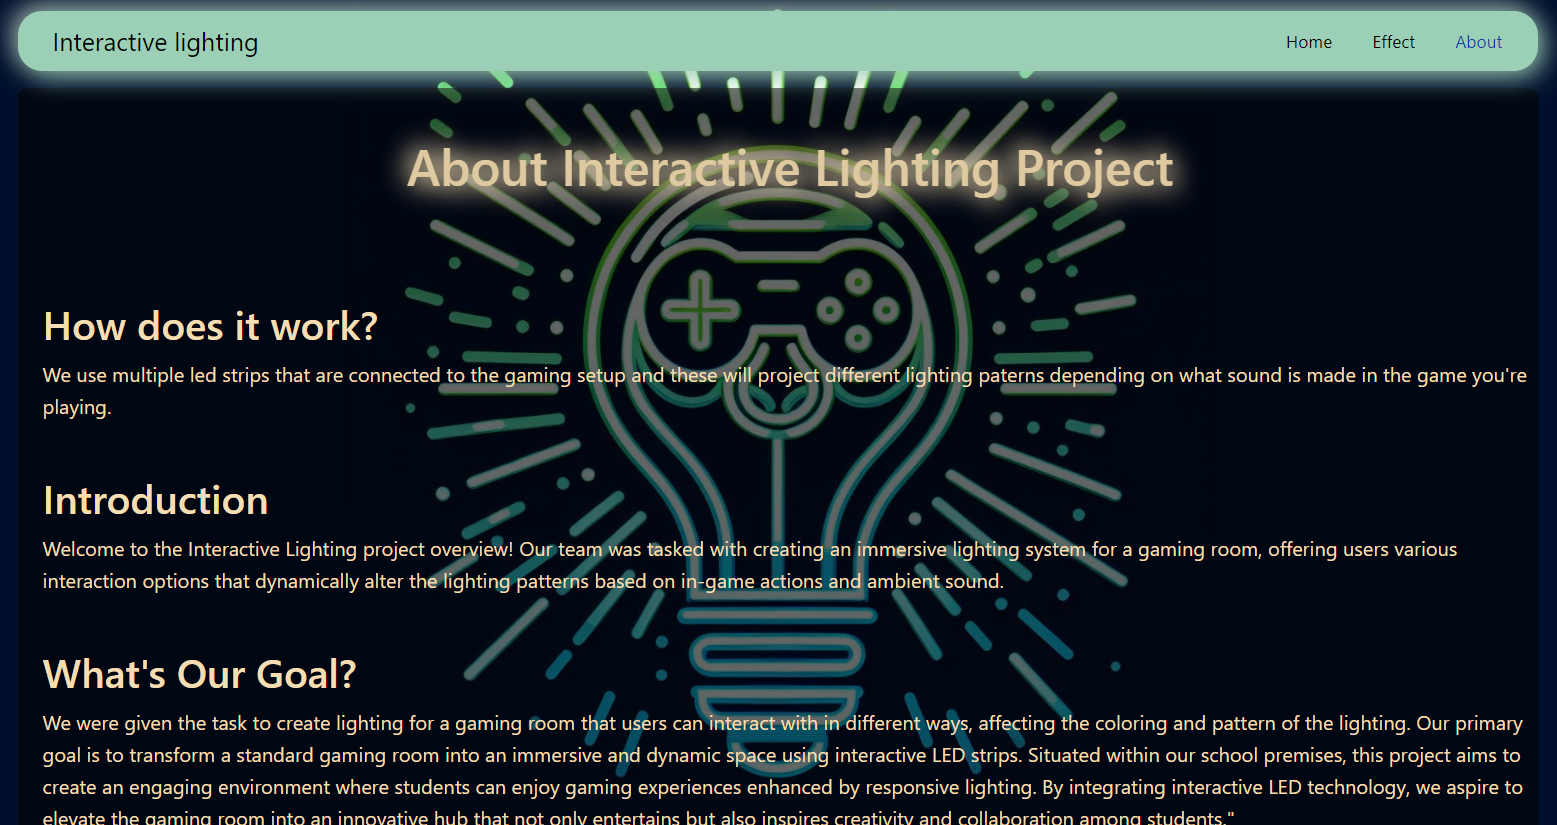
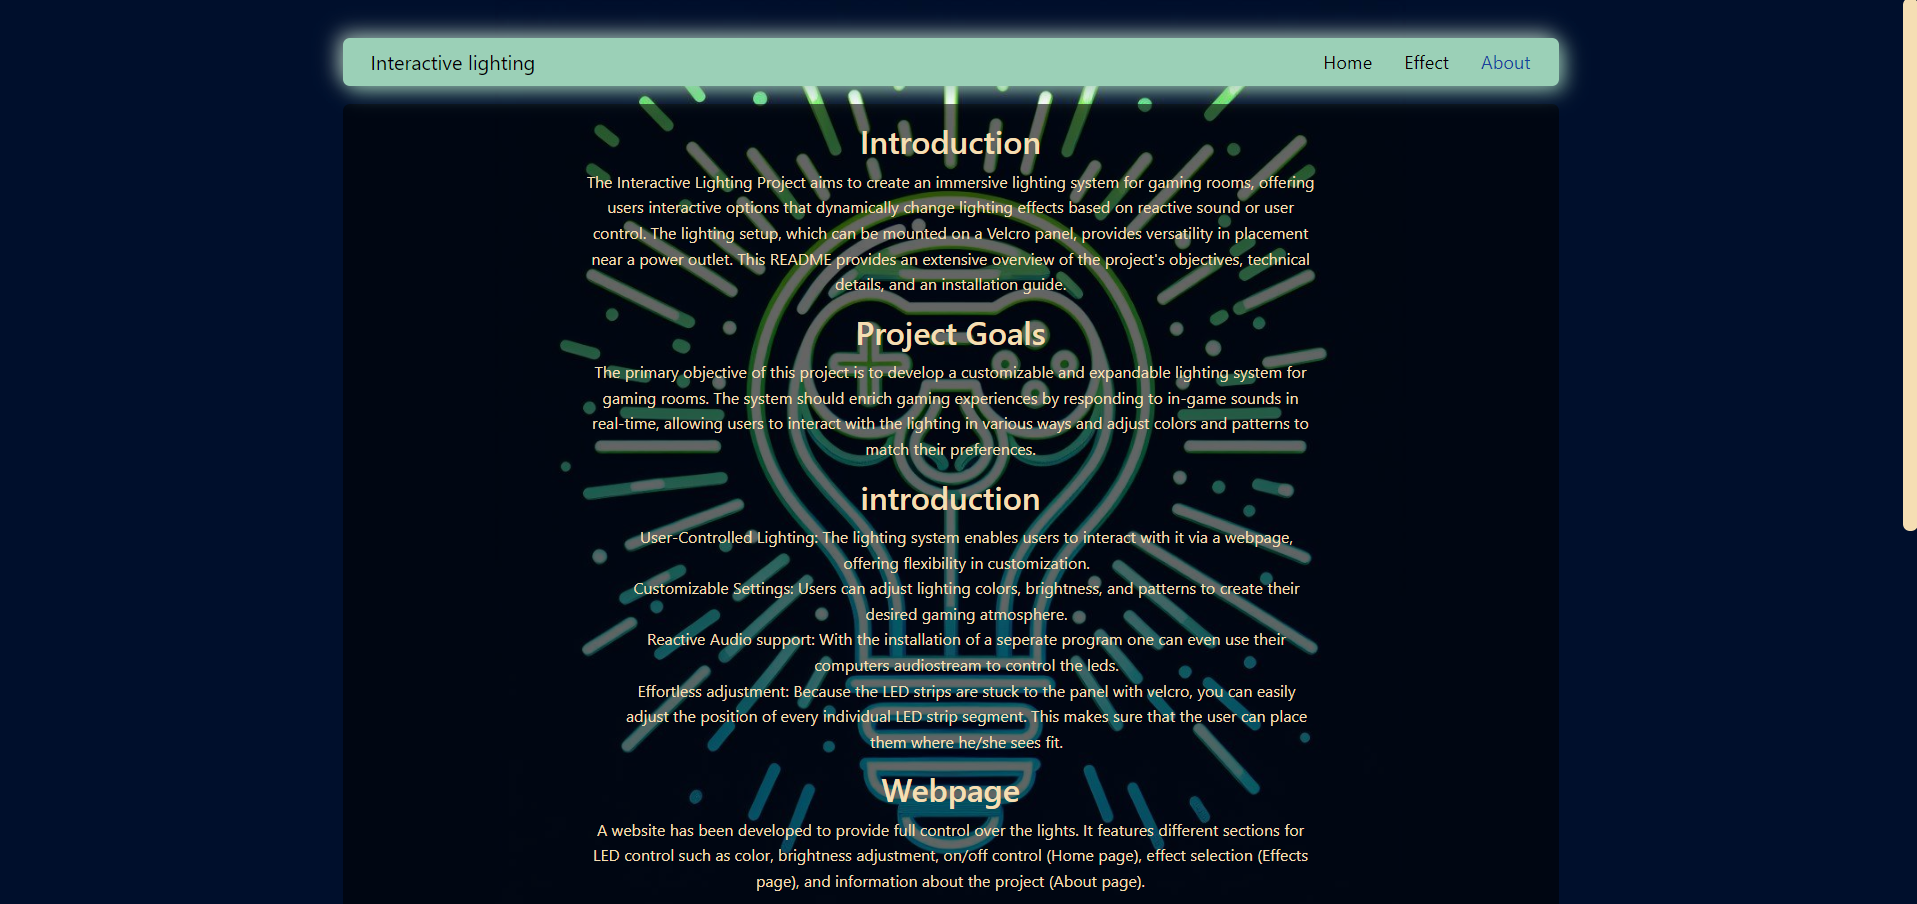
fixed aboutpage

diff --git a/frontend/src/views/AboutView.vue b/frontend/src/views/AboutView.vue
@@ -1,105 +1,77 @@
 <template>
   <main>
     <div class="about">
-      <h1 class="H1Style">About Interactive Lighting Project</h1>
-      <br />
-      <br />
-      
-      <h2>How does it work?</h2>
-      <p>
-        We use multiple led strips that are connected to the gaming setup and
-        these will project different lighting paterns depending on what sound is
-        made in the game you're playing.
-      </p>
-      <br />
-
       <section id="introduction">
         <h2>Introduction</h2>
         <p>
-          Welcome to the Interactive Lighting project overview! Our team was
-          tasked with creating an immersive lighting system for a gaming room,
-          offering users various interaction options that dynamically alter the
-          lighting patterns based on in-game actions and ambient sound.
+          The Interactive Lighting Project aims to create an immersive lighting system for gaming rooms, offering users
+          interactive options that dynamically change lighting effects based on reactive sound or user control. The
+          lighting setup, which can be mounted on a Velcro panel, provides versatility in placement near a power outlet.
+          This README provides an extensive overview of the project's objectives, technical details, and an installation
+          guide.
         </p>
       </section>
-      <br />
 
-      <section id="goal">
-        <h2>What's Our Goal?</h2>
+      <section id="projectGoals">
+        <h2>Project Goals</h2>
         <p>
-          We were given the task to create lighting for a gaming room that users
-          can interact with in different ways, affecting the coloring and
-          pattern of the lighting. Our primary goal is to transform a standard
-          gaming room into an immersive and dynamic space using interactive LED
-          strips. Situated within our school premises, this project aims to
-          create an engaging environment where students can enjoy gaming
-          experiences enhanced by responsive lighting. By integrating
-          interactive LED technology, we aspire to elevate the gaming room into
-          an innovative hub that not only entertains but also inspires
-          creativity and collaboration among students."
+          The primary objective of this project is to develop a customizable and expandable lighting system for gaming
+          rooms. The system should enrich gaming experiences by responding to in-game sounds in real-time, allowing
+          users to interact with the lighting in various ways and adjust colors and patterns to match their preferences.
         </p>
       </section>
-      <br />
-
-      <section id="how-it-works">
-        <h2>How Does It Work?</h2>
-        <p>
-          We use multiple LED strips connected to the gaming setup, which
-          project different lighting patterns depending on the in-game sound.
-        </p>
-      </section>
-      <br />
 
       <section id="features">
-        <h2>Features</h2>
-        Real-time Responsiveness: The lighting system reacts instantly to
-        in-game events and ambient sound, providing a seamless and immersive
-        experience.
-      </section>
-      <br />
-
-      <section id="expandability">
-        <h2>Expandability</h2>
-        <p>
-          This project has been designed with expandability in mind, allowing
-          for future enhancements and additions without significant rework.
-        </p>
-      </section>
-      <br />
-      <section id="software">
-        <h2>Software We Used</h2>
-        <div>
-          <ul id="list">
-            <li>WLED</li>
-            <li>Fusion 360</li>
-          </ul>
-        </div>
-      </section>
-      <br />
-
-      <section id="hardware">
-        <h2>Hardware We Used</h2>
-        <ul id="list">
-          <li>ESP32</li>
-          <li>24V Power Supply</li>
-          <li>DC/DC Converter</li>
-          <li>WS2812 LED Strips</li>
-          <li>
-            Ceiling Mounting Hardware (later replaced with a panel and velcro)
-          </li>
-          <li>JST Connectors</li>
-          <li>Velcro</li>
+        <h2>introduction</h2>
+        <ul class="list">
+          <li>User-Controlled Lighting: The lighting system enables users to interact with it via a webpage, offering
+            flexibility in customization.</li>
+          <li>Customizable Settings: Users can adjust lighting colors, brightness, and patterns to create their desired
+            gaming atmosphere.</li>
+          <li>Reactive Audio support: With the installation of a seperate program one can even use their computers
+            audiostream to control the leds.</li>
+          <li>Effortless adjustment: Because the LED strips are stuck to the panel with velcro, you can easily adjust
+            the position of every individual LED strip segment. This makes sure that the user can place them where
+            he/she sees fit.</li>
         </ul>
       </section>
-      <br />
 
-      <section id="changes">
-        <h2>Changes During the Project</h2>
+      <section id="webpage">
+        <h2>Webpage</h2>
         <p>
-          Originally, we planned to mount the LED strips on the ceiling, but
-          later decided to stick them to a panel with velcro for easier
-          installation and flexibility.
+          A website has been developed to provide full control over the lights. It features different sections for LED
+          control such as color, brightness adjustment, on/off control (Home page), effect selection (Effects page), and
+          information about the project (About page).
         </p>
+        <br>
+
+        <h2>Home Page</h2>
+        <p>
+          This page allows control of the general LED settings. Users can adjust the solid color, brightness, and turn
+          the lights on or off. There's a left side with a color picker and buttons for predefined colors, and a right
+          side with controls for power and brightness, as well as a button for random effects.
+        </p>
+        <br>
+
+        <h2>Effect Page</h2>
+        <p>
+          Here, users can choose from a variety of effects available in WLED. They can either search for specific
+          effects or browse through the entire list to select one, enabling them to create a unique gaming atmosphere.
+        </p>
+        <br>
+
+        <h2>About Page</h2>
+        <p>
+          This page provides detailed information about the project's goals, features, and technical specifications.
+          It's intended for informational purposes only and does not offer LED control.
+        </p>
+      </section>
+
+      <hr id="line">
+
+      <section id="github">
+        <p>For more information go to our github</p>
+        <button id="githubButton"><a href="https://github.com/vives-project-xp/InteractiveLighting" id="githubButtonlink" target="_blank">GitHub</a></button>
       </section>
     </div>
   </main>
@@ -118,24 +90,57 @@ body {
   background-attachment: fixed;
 }
 
-#list {
+main{
+  display: flex;
+  flex-direction: column;
   align-items: center;
   justify-content: center;
 }
 
 .about {
-  padding-left: 20px;
-  text-align: left;
+  width: 60%;
+  display: flex;
+  flex-direction: column;
+  align-items: center;
+  justify-content: center;
+  align-self: center;
 }
 
-.H1Style {
-  padding: 2%;
-  font-size: 2.5em;
-  color: rgb(223, 201, 160);
-  text-align: center;
-  text-shadow: 5px 5px 20px wheat, -5px -5px 20px wheat; 
+.list{
+  list-style-type: none;
+  justify-items: left;
 }
 
+#githubButtonlink{
+  text-decoration: none;
+  color: black;
+}
+
+#githubButton {
+  width: 100%;
+  background-color: rgb(155, 208, 183);
+  justify-content: center;
+  align-items: center;
+  border-radius: 10px;
+  border: none;
+}
+
+#githubButton:hover {
+  background-color: rgb(217, 151, 116);
+  transition: 1000ms;
+}
+
+#githubButton:active {
+  box-shadow: inset 0 3px 5px rgba(0, 0, 0, 0.2);
+  transform: translateY(1px);
+}
+
+#line{
+  width: 100%;
+  direction: horizontal;
+  border: 3px solid wheat;
+  color: wheat;
+}
 
 /* ------ Custom Scrollbar ------ */
 

diff --git a/frontend/index.html b/frontend/index.html
@@ -2,7 +2,7 @@
 <html lang="en">
   <head>
     <meta charset="UTF-8">
-    <link rel="icon" href="/frontend/public/favicon.ico">
+    <link rel="icon" href="./public/favicon.ico">
     <meta name="viewport" content="width=device-width, initial-scale=1.0">
     <link href="https://cdn.jsdelivr.net/npm/bootstrap@5.3.3/dist/css/bootstrap.min.css" rel="stylesheet" integrity="sha384-QWTKZyjpPEjISv5WaRU9OFeRpok6YctnYmDr5pNlyT2bRjXh0JMhjY6hW+ALEwIH" crossorigin="anonymous">
     <script src="https://cdn.jsdelivr.net/npm/bootstrap@5.3.3/dist/js/bootstrap.bundle.min.js" integrity="sha384-YvpcrYf0tY3lHB60NNkmXc5s9fDVZLESaAA55NDzOxhy9GkcIdslK1eN7N6jIeHz" crossorigin="anonymous"></script>
